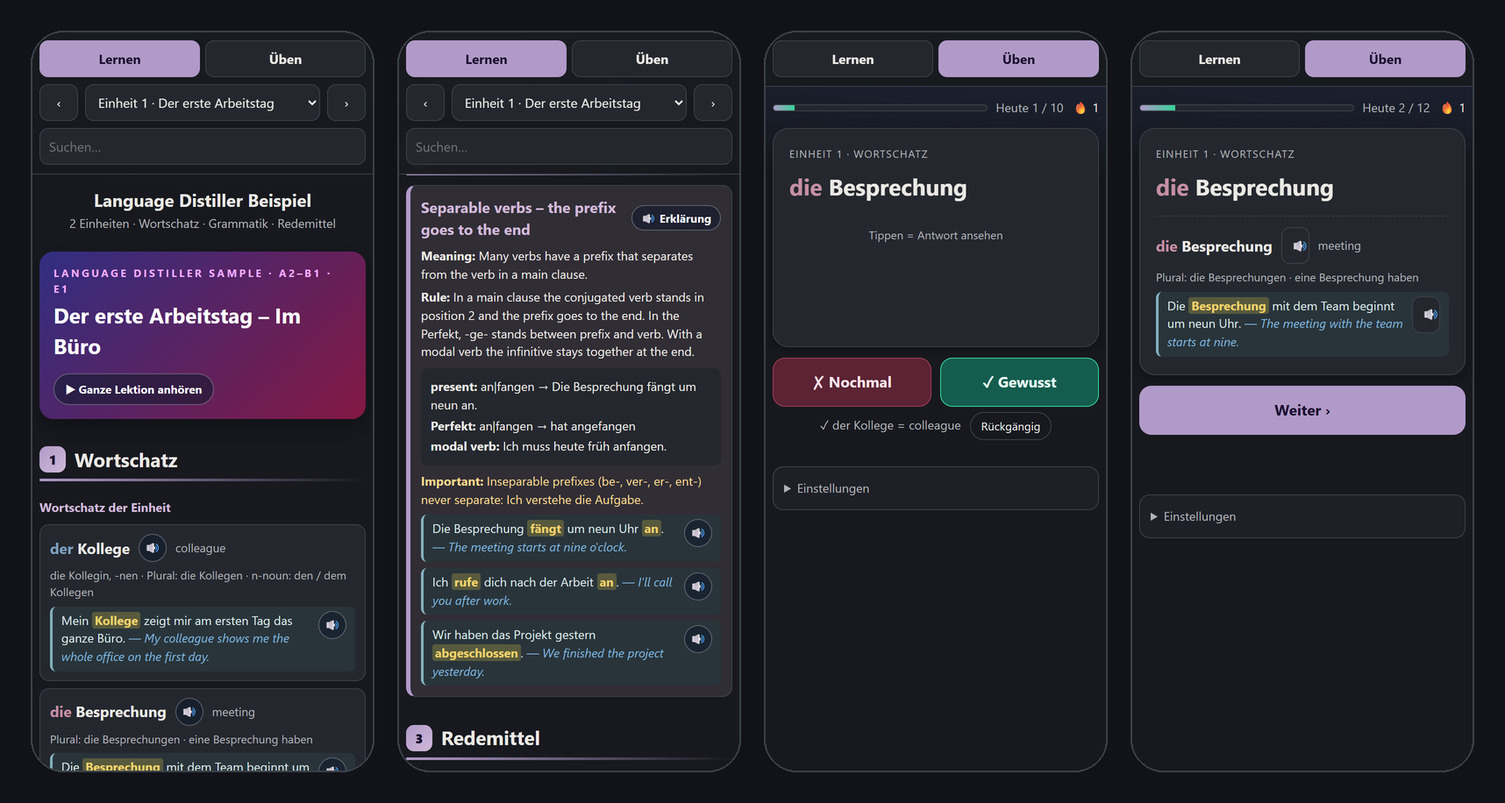
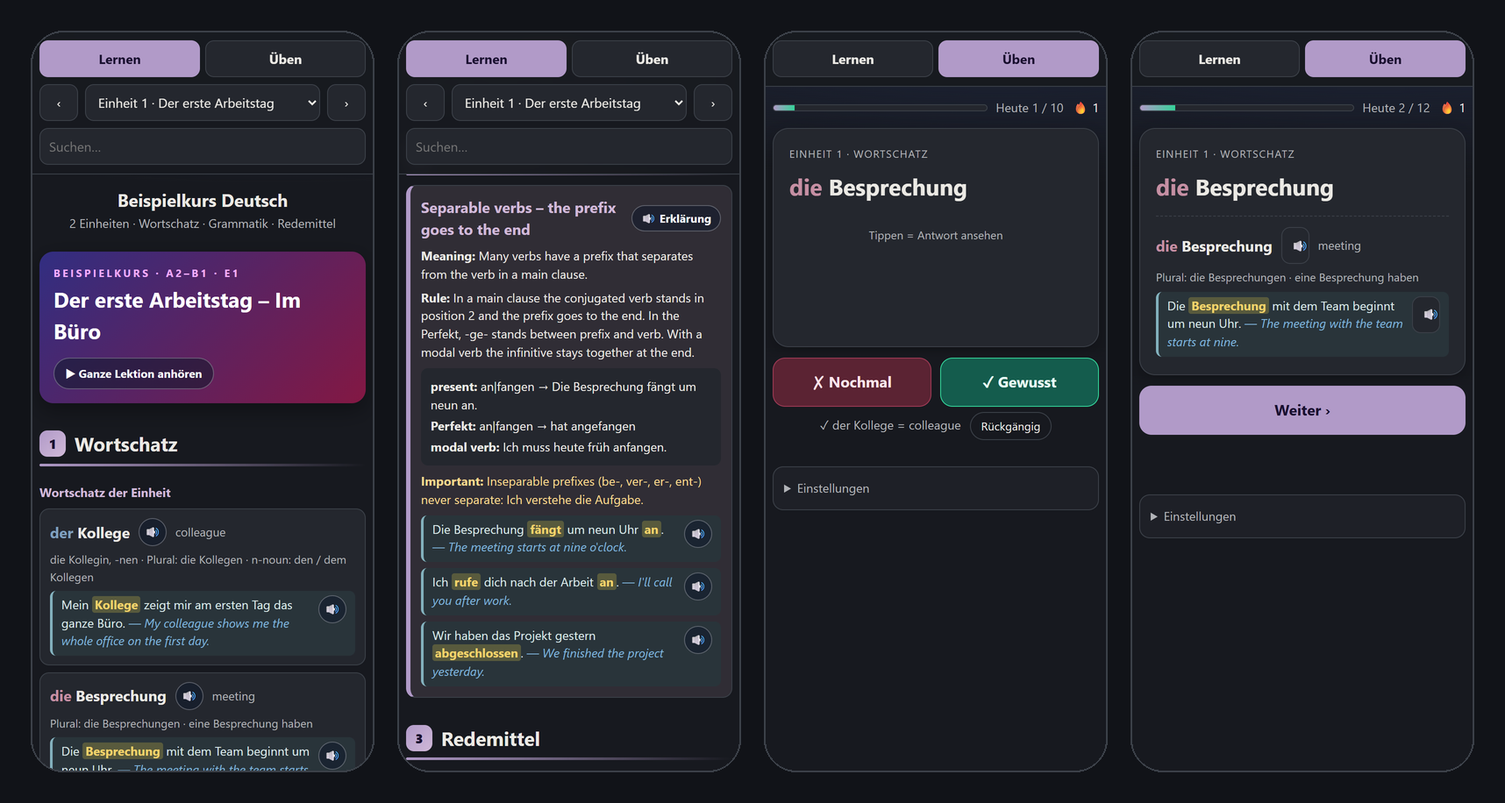
Rename to German Language Distiller
- skill, plugin and marketplace are now german-language-distiller
  (skills/german-language-distiller); the repository becomes
  german-language-distiller, so the name says what the skill supports
- the sample course is called "Beispielkurs" instead of carrying the product
  name, so a future rename leaves the sample and its screenshots alone

diff --git a/examples/sample-course/Sample_Studienpaket_v1.html b/examples/sample-course/Sample_Studienpaket_v1.html
@@ -2,7 +2,7 @@
 <html lang="de"><head>
 <meta charset="UTF-8"><meta name="viewport" content="width=device-width, initial-scale=1.0">
 <meta name="study-pack-app" content="course v1">
-<title>Language Distiller Beispiel</title>
+<title>Beispielkurs Deutsch</title>
 <style>
   :root{
     --der:#7f9fbd; --das:#86ad9a; --die:#c58fa3;
@@ -144,9 +144,9 @@
 </nav>
 <noscript><p class="cover">Audio und Üben brauchen einen Browser mit JavaScript.</p></noscript>
 <div class="lernen">
-<div class="cover"><b>Language Distiller Beispiel</b>2 Einheiten · Wortschatz · Grammatik · Redemittel</div>
+<div class="cover"><b>Beispielkurs Deutsch</b>2 Einheiten · Wortschatz · Grammatik · Redemittel</div>
 <section class="unit" id="E1">
-<header class="hero"><div class="lekt">Language Distiller sample · A2–B1 · E1</div><h1>Der erste Arbeitstag – Im Büro</h1></header>
+<header class="hero"><div class="lekt">Beispielkurs · A2–B1 · E1</div><h1>Der erste Arbeitstag – Im Büro</h1></header>
 <h2><span class="num">1</span> Wortschatz</h2><div class="rule-under"></div>
 <h3>Wortschatz der Einheit</h3><div class="grid">
 <article class="voc" id="E1-v1"><div class="top"><span class="de"><span class="art-der">der</span> Kollege</span><span class="en">colleague</span></div><p class="forms">die Kollegin, -nen · Plural: die Kollegen · n-noun: den / dem Kollegen</p><div class="ex">Mein <mark>Kollege</mark> zeigt mir am ersten Tag das ganze Büro. <span class="tr" lang="en">— My colleague shows me the whole office on the first day.</span></div></article>
@@ -166,7 +166,7 @@
 <article class="phrase" id="E1-e2"><div class="head">Könnten Sie mir bitte zeigen, wie …?</div><p class="meaning">Could you please show me how …?</p><div class="when">Ask a colleague for help. · polite</div><div class="ex"><mark>Könnten Sie mir bitte zeigen, wie</mark> der Drucker funktioniert? <span class="tr" lang="en">— Could you please show me how the printer works?</span></div></article>
 <article class="phrase" id="E1-e3"><div class="head">Bis wann soll ich … erledigen?</div><p class="meaning">By when should I get … done?</p><div class="when">Ask about a deadline.</div><div class="ex"><mark>Bis wann soll ich</mark> den Bericht <mark>erledigen</mark>? <span class="tr" lang="en">— By when should I get the report done?</span></div></article>
 </section><section class="unit" id="E2">
-<header class="hero"><div class="lekt">Language Distiller sample · A2–B1 · E2</div><h1>Pläne fürs Wochenende – Freizeit</h1></header>
+<header class="hero"><div class="lekt">Beispielkurs · A2–B1 · E2</div><h1>Pläne fürs Wochenende – Freizeit</h1></header>
 <h2><span class="num">1</span> Wortschatz</h2><div class="rule-under"></div>
 <h3>Wortschatz der Einheit</h3><div class="grid">
 <article class="voc" id="E2-v1"><div class="top"><span class="de"><span class="art-der">der</span> Ausflug</span><span class="en">trip, outing</span></div><p class="forms">Plural: die Ausflüge · einen Ausflug machen</p><div class="ex">Am Samstag machen wir einen <mark>Ausflug</mark> an den See. <span class="tr" lang="en">— On Saturday we&#x27;re going on a trip to the lake.</span></div></article>
@@ -210,7 +210,7 @@
 (function(){
   'use strict';
   var d=document, root=d.documentElement; root.classList.add('js');
-  var A={}, IDX={}, SEQ={}, CARDS=[{"u":"E1","l":"Einheit 1","id":"E1-v1","k":"w","b":"<div class=\"top\"><span class=\"de\"><span class=\"art-der\">der<\/span> Kollege<\/span><span class=\"en\">colleague<\/span><\/div><p class=\"forms\">die Kollegin, -nen · Plural: die Kollegen · n-noun: den / dem Kollegen<\/p><div class=\"ex\">Mein <mark>Kollege<\/mark> zeigt mir am ersten Tag das ganze Büro. <span class=\"tr\" lang=\"en\">— My colleague shows me the whole office on the first day.<\/span><\/div>","f":"<span class=\"art-der\">der<\/span> Kollege","r":"colleague","a":"der Kollege = colleague"},{"u":"E1","l":"Einheit 1","id":"E1-v2","k":"w","b":"<div class=\"top\"><span class=\"de\"><span class=\"art-die\">die<\/span> Besprechung<\/span><span class=\"en\">meeting<\/span><\/div><p class=\"forms\">Plural: die Besprechungen · eine Besprechung haben<\/p><div class=\"ex\">Die <mark>Besprechung<\/mark> mit dem Team beginnt um neun Uhr. <span class=\"tr\" lang=\"en\">— The meeting with the team starts at nine.<\/span><\/div>","f":"<span class=\"art-die\">die<\/span> Besprechung","r":"meeting","a":"die Besprechung = meeting"},{"u":"E1","l":"Einheit 1","id":"E1-v3","k":"w","b":"<div class=\"top\"><span class=\"de\"><span class=\"art-der\">der<\/span> Termin<\/span><span class=\"en\">appointment<\/span><\/div><p class=\"forms\">Plural: die Termine · einen Termin vereinbaren / verschieben<\/p><div class=\"ex\">Können wir den <mark>Termin<\/mark> auf Donnerstag verschieben? <span class=\"tr\" lang=\"en\">— Can we move the appointment to Thursday?<\/span><\/div>","f":"<span class=\"art-der\">der<\/span> Termin","r":"appointment","a":"der Termin = appointment"},{"u":"E1","l":"Einheit 1","id":"E1-v4","k":"w","b":"<div class=\"top\"><span class=\"de\">sich vorstellen<\/span><span class=\"en\">to introduce oneself<\/span><\/div><p class=\"forms\">stellt sich vor · hat sich vorgestellt · separable<\/p><div class=\"ex\">Am ersten Tag <mark>stelle<\/mark> ich mich allen Kollegen <mark>vor<\/mark>. <span class=\"tr\" lang=\"en\">— On the first day I introduce myself to all my colleagues.<\/span><\/div>","f":"sich vorstellen","r":"to introduce oneself","a":"sich vorstellen = to introduce oneself"},{"u":"E1","l":"Einheit 1","id":"E1-v5","k":"w","b":"<div class=\"top\"><span class=\"de\">erledigen<\/span><span class=\"en\">to get done, take care of<\/span><\/div><p class=\"forms\">erledigt · hat erledigt · eine Aufgabe erledigen<\/p><div class=\"ex\">Diese Aufgabe <mark>erledige<\/mark> ich bis Freitag. <span class=\"tr\" lang=\"en\">— I&#x27;ll get this task done by Friday.<\/span><\/div>","f":"erledigen","r":"to get done, take care of","a":"erledigen = to get done, take care of"},{"u":"E1","l":"Einheit 1","id":"E1-v6","k":"w","b":"<div class=\"top\"><span class=\"de\">pünktlich<\/span><span class=\"en\">on time, punctual<\/span><\/div><p class=\"forms\">↔ unpünktlich · die Pünktlichkeit<\/p><div class=\"ex\">Bitte sei morgen <mark>pünktlich<\/mark>, wir haben um acht eine Besprechung. <span class=\"tr\" lang=\"en\">— Please be on time tomorrow, we have a meeting at eight.<\/span><\/div>","f":"pünktlich","r":"on time, punctual","a":"pünktlich = on time, punctual"},{"u":"E1","l":"Einheit 1","id":"E1-g1","k":"g","b":"<h3>Separable verbs – the prefix goes to the end<\/h3><p><b>Meaning:<\/b> Many verbs have a prefix that separates from the verb in a main clause.<\/p><p><b>Rule:<\/b> In a main clause the conjugated verb stands in position 2 and the prefix goes to the end. In the Perfekt, -ge- stands between prefix and verb. With a modal verb the infinitive stays together at the end.<\/p><div class=\"patterns\"><p><b>present:<\/b> an|fangen → Die Besprechung fängt um neun an.<\/p><p><b>Perfekt:<\/b> an|fangen → hat angefangen<\/p><p><b>modal verb:<\/b> Ich muss heute früh anfangen.<\/p><\/div><p class=\"contrast\"><b>Important:<\/b> Inseparable prefixes (be-, ver-, er-, ent-) never separate: Ich verstehe die Aufgabe.<\/p><div class=\"ex\">Die Besprechung <mark>fängt<\/mark> um neun Uhr <mark>an<\/mark>. <span class=\"tr\" lang=\"en\">— The meeting starts at nine o&#x27;clock.<\/span><\/div>\n<div class=\"ex\">Ich <mark>rufe<\/mark> dich nach der Arbeit <mark>an<\/mark>. <span class=\"tr\" lang=\"en\">— I&#x27;ll call you after work.<\/span><\/div>\n<div class=\"ex\">Wir haben das Projekt gestern <mark>abgeschlossen<\/mark>. <span class=\"tr\" lang=\"en\">— We finished the project yesterday.<\/span><\/div>","f":"Separable verbs – the prefix goes to the end","a":"Separable verbs – the prefix goes to the end"},{"u":"E1","l":"Einheit 1","id":"E1-e1","k":"r","b":"<div class=\"head\">Darf ich mich kurz vorstellen? Ich bin … und arbeite als …<\/div><p class=\"meaning\">May I briefly introduce myself? I&#x27;m … and I work as …<\/p><div class=\"when\">Introduce yourself at a new workplace. · polite<\/div><div class=\"ex\"><mark>Darf ich mich kurz vorstellen<\/mark>? Ich bin Sara und arbeite als Grafikerin. <span class=\"tr\" lang=\"en\">— May I briefly introduce myself? I&#x27;m Sara and I work as a graphic designer.<\/span><\/div>","f":"<span class=\"q-mean\">May I briefly introduce myself? I&#x27;m … and I work as …<\/span><span class=\"q-when\">Introduce yourself at a new workplace. · polite<\/span>","a":"Darf ich mich kurz vorstellen? Ich bin … und arbeite als …"},{"u":"E1","l":"Einheit 1","id":"E1-e2","k":"r","b":"<div class=\"head\">Könnten Sie mir bitte zeigen, wie …?<\/div><p class=\"meaning\">Could you please show me how …?<\/p><div class=\"when\">Ask a colleague for help. · polite<\/div><div class=\"ex\"><mark>Könnten Sie mir bitte zeigen, wie<\/mark> der Drucker funktioniert? <span class=\"tr\" lang=\"en\">— Could you please show me how the printer works?<\/span><\/div>","f":"<span class=\"q-mean\">Could you please show me how …?<\/span><span class=\"q-when\">Ask a colleague for help. · polite<\/span>","a":"Könnten Sie mir bitte zeigen, wie …?"},{"u":"E1","l":"Einheit 1","id":"E1-e3","k":"r","b":"<div class=\"head\">Bis wann soll ich … erledigen?<\/div><p class=\"meaning\">By when should I get … done?<\/p><div class=\"when\">Ask about a deadline.<\/div><div class=\"ex\"><mark>Bis wann soll ich<\/mark> den Bericht <mark>erledigen<\/mark>? <span class=\"tr\" lang=\"en\">— By when should I get the report done?<\/span><\/div>","f":"<span class=\"q-mean\">By when should I get … done?<\/span><span class=\"q-when\">Ask about a deadline.<\/span>","a":"Bis wann soll ich … erledigen?"},{"u":"E2","l":"Einheit 2","id":"E2-v1","k":"w","b":"<div class=\"top\"><span class=\"de\"><span class=\"art-der\">der<\/span> Ausflug<\/span><span class=\"en\">trip, outing<\/span><\/div><p class=\"forms\">Plural: die Ausflüge · einen Ausflug machen<\/p><div class=\"ex\">Am Samstag machen wir einen <mark>Ausflug<\/mark> an den See. <span class=\"tr\" lang=\"en\">— On Saturday we&#x27;re going on a trip to the lake.<\/span><\/div>","f":"<span class=\"art-der\">der<\/span> Ausflug","r":"trip, outing","a":"der Ausflug = trip, outing"},{"u":"E2","l":"Einheit 2","id":"E2-v2","k":"w","b":"<div class=\"top\"><span class=\"de\"><span class=\"art-die\">die<\/span> Verabredung<\/span><span class=\"en\">arrangement to meet, date<\/span><\/div><p class=\"forms\">Plural: die Verabredungen · sich verabreden<\/p><div class=\"ex\">Ich habe heute Abend eine <mark>Verabredung<\/mark> mit Lena. <span class=\"tr\" lang=\"en\">— I&#x27;m meeting Lena tonight.<\/span><\/div>","f":"<span class=\"art-die\">die<\/span> Verabredung","r":"arrangement to meet, date","a":"die Verabredung = arrangement to meet, date"},{"u":"E2","l":"Einheit 2","id":"E2-v3","k":"w","b":"<div class=\"top\"><span class=\"de\">vorschlagen<\/span><span class=\"en\">to suggest<\/span><\/div><p class=\"forms\">schlägt vor · hat vorgeschlagen (!) · separable<\/p><div class=\"ex\">Ich <mark>schlage<\/mark> <mark>vor<\/mark>, dass wir zusammen kochen. <span class=\"tr\" lang=\"en\">— I suggest that we cook together.<\/span><\/div>","f":"vorschlagen","r":"to suggest","a":"vorschlagen = to suggest"},{"u":"E2","l":"Einheit 2","id":"E2-v4","k":"w","b":"<div class=\"top\"><span class=\"de\">spontan<\/span><span class=\"en\">spontaneous(ly)<\/span><\/div><p class=\"forms\">sich spontan entscheiden<\/p><div class=\"ex\">Wir haben uns ganz <mark>spontan<\/mark> für das Kino entschieden. <span class=\"tr\" lang=\"en\">— We decided on the cinema quite spontaneously.<\/span><\/div>","f":"spontan","r":"spontaneous(ly)","a":"spontan = spontaneous(ly)"},{"u":"E2","l":"Einheit 2","id":"E2-v5","k":"w","b":"<div class=\"top\"><span class=\"de\"><span class=\"art-das\">das<\/span> Wetter<\/span><span class=\"en\">weather<\/span><\/div><p class=\"forms\">no plural · bei schönem Wetter<\/p><div class=\"ex\">Bei schönem <mark>Wetter<\/mark> fahren wir mit dem Rad. <span class=\"tr\" lang=\"en\">— If the weather is nice, we&#x27;ll go by bike.<\/span><\/div>","f":"<span class=\"art-das\">das<\/span> Wetter","r":"weather","a":"das Wetter = weather"},{"u":"E2","l":"Einheit 2","id":"E2-g1","k":"g","b":"<h3>Polite suggestions with könnte and wäre<\/h3><p><b>Meaning:<\/b> Konjunktiv II makes a suggestion sound open and friendly.<\/p><p><b>Rule:<\/b> Use könnten + infinitive at the end, or Wie wäre es mit + Dativ. Wir könnten … is softer than Wir müssen …<\/p><div class=\"patterns\"><p><b>könnte:<\/b> Wir könnten am Sonntag wandern gehen.<\/p><p><b>wäre:<\/b> Wie wäre es mit einem Picknick?<\/p><p><b>Lust haben:<\/b> Hättest du Lust, … zu …?<\/p><\/div><p class=\"contrast\"><b>Important:<\/b> Wir können … states that something is possible. Wir könnten … makes a suggestion.<\/p><div class=\"ex\">Wir <mark>könnten<\/mark> am Sonntag wandern gehen. <span class=\"tr\" lang=\"en\">— We could go hiking on Sunday.<\/span><\/div>\n<div class=\"ex\"><mark>Wie wäre es mit<\/mark> einem Picknick im Park? <span class=\"tr\" lang=\"en\">— How about a picnic in the park?<\/span><\/div>\n<div class=\"ex\"><mark>Hättest du Lust<\/mark>, mit ins Kino zu kommen? <span class=\"tr\" lang=\"en\">— Would you like to come to the cinema?<\/span><\/div>","f":"Polite suggestions with könnte and wäre","a":"Polite suggestions with könnte and wäre"},{"u":"E2","l":"Einheit 2","id":"E2-e1","k":"r","b":"<div class=\"head\">Hast du Lust, … zu …?<\/div><p class=\"meaning\">Do you feel like …ing?<\/p><div class=\"when\">Invite a friend informally. · informal<\/div><div class=\"ex\"><mark>Hast du Lust<\/mark>, am Samstag mit uns <mark>zu<\/mark> grillen? <span class=\"tr\" lang=\"en\">— Do you feel like having a barbecue with us on Saturday?<\/span><\/div>","f":"<span class=\"q-mean\">Do you feel like …ing?<\/span><span class=\"q-when\">Invite a friend informally. · informal<\/span>","a":"Hast du Lust, … zu …?"},{"u":"E2","l":"Einheit 2","id":"E2-e2","k":"r","b":"<div class=\"head\">Wie wäre es mit …?<\/div><p class=\"meaning\">How about …?<\/p><div class=\"when\">Make a suggestion.<\/div><div class=\"ex\"><mark>Wie wäre es mit<\/mark> einem Ausflug an den See? <span class=\"tr\" lang=\"en\">— How about a trip to the lake?<\/span><\/div>","f":"<span class=\"q-mean\">How about …?<\/span><span class=\"q-when\">Make a suggestion.<\/span>","a":"Wie wäre es mit …?"},{"u":"E2","l":"Einheit 2","id":"E2-e3","k":"r","b":"<div class=\"head\">Das passt mir gut. / Das passt mir leider nicht.<\/div><p class=\"meaning\">That suits me. / Unfortunately that doesn&#x27;t suit me.<\/p><div class=\"when\">Accept or decline a suggested time.<\/div><div class=\"ex\">Samstag <mark>passt mir gut<\/mark>, aber Sonntag <mark>passt mir leider nicht<\/mark>. <span class=\"tr\" lang=\"en\">— Saturday suits me, but Sunday unfortunately doesn&#x27;t.<\/span><\/div>","f":"<span class=\"q-mean\">That suits me. / Unfortunately that doesn&#x27;t suit me.<\/span><span class=\"q-when\">Accept or decline a suggested time.<\/span>","a":"Das passt mir gut. / Das passt mir leider nicht."}], ORDER=["E1", "E2"], CFG={"key": "language-distiller-beispiel", "perDay": 10, "units": [["E1", "E1"], ["E2", "E2"]]};
+  var A={}, IDX={}, SEQ={}, CARDS=[{"u":"E1","l":"Einheit 1","id":"E1-v1","k":"w","b":"<div class=\"top\"><span class=\"de\"><span class=\"art-der\">der<\/span> Kollege<\/span><span class=\"en\">colleague<\/span><\/div><p class=\"forms\">die Kollegin, -nen · Plural: die Kollegen · n-noun: den / dem Kollegen<\/p><div class=\"ex\">Mein <mark>Kollege<\/mark> zeigt mir am ersten Tag das ganze Büro. <span class=\"tr\" lang=\"en\">— My colleague shows me the whole office on the first day.<\/span><\/div>","f":"<span class=\"art-der\">der<\/span> Kollege","r":"colleague","a":"der Kollege = colleague"},{"u":"E1","l":"Einheit 1","id":"E1-v2","k":"w","b":"<div class=\"top\"><span class=\"de\"><span class=\"art-die\">die<\/span> Besprechung<\/span><span class=\"en\">meeting<\/span><\/div><p class=\"forms\">Plural: die Besprechungen · eine Besprechung haben<\/p><div class=\"ex\">Die <mark>Besprechung<\/mark> mit dem Team beginnt um neun Uhr. <span class=\"tr\" lang=\"en\">— The meeting with the team starts at nine.<\/span><\/div>","f":"<span class=\"art-die\">die<\/span> Besprechung","r":"meeting","a":"die Besprechung = meeting"},{"u":"E1","l":"Einheit 1","id":"E1-v3","k":"w","b":"<div class=\"top\"><span class=\"de\"><span class=\"art-der\">der<\/span> Termin<\/span><span class=\"en\">appointment<\/span><\/div><p class=\"forms\">Plural: die Termine · einen Termin vereinbaren / verschieben<\/p><div class=\"ex\">Können wir den <mark>Termin<\/mark> auf Donnerstag verschieben? <span class=\"tr\" lang=\"en\">— Can we move the appointment to Thursday?<\/span><\/div>","f":"<span class=\"art-der\">der<\/span> Termin","r":"appointment","a":"der Termin = appointment"},{"u":"E1","l":"Einheit 1","id":"E1-v4","k":"w","b":"<div class=\"top\"><span class=\"de\">sich vorstellen<\/span><span class=\"en\">to introduce oneself<\/span><\/div><p class=\"forms\">stellt sich vor · hat sich vorgestellt · separable<\/p><div class=\"ex\">Am ersten Tag <mark>stelle<\/mark> ich mich allen Kollegen <mark>vor<\/mark>. <span class=\"tr\" lang=\"en\">— On the first day I introduce myself to all my colleagues.<\/span><\/div>","f":"sich vorstellen","r":"to introduce oneself","a":"sich vorstellen = to introduce oneself"},{"u":"E1","l":"Einheit 1","id":"E1-v5","k":"w","b":"<div class=\"top\"><span class=\"de\">erledigen<\/span><span class=\"en\">to get done, take care of<\/span><\/div><p class=\"forms\">erledigt · hat erledigt · eine Aufgabe erledigen<\/p><div class=\"ex\">Diese Aufgabe <mark>erledige<\/mark> ich bis Freitag. <span class=\"tr\" lang=\"en\">— I&#x27;ll get this task done by Friday.<\/span><\/div>","f":"erledigen","r":"to get done, take care of","a":"erledigen = to get done, take care of"},{"u":"E1","l":"Einheit 1","id":"E1-v6","k":"w","b":"<div class=\"top\"><span class=\"de\">pünktlich<\/span><span class=\"en\">on time, punctual<\/span><\/div><p class=\"forms\">↔ unpünktlich · die Pünktlichkeit<\/p><div class=\"ex\">Bitte sei morgen <mark>pünktlich<\/mark>, wir haben um acht eine Besprechung. <span class=\"tr\" lang=\"en\">— Please be on time tomorrow, we have a meeting at eight.<\/span><\/div>","f":"pünktlich","r":"on time, punctual","a":"pünktlich = on time, punctual"},{"u":"E1","l":"Einheit 1","id":"E1-g1","k":"g","b":"<h3>Separable verbs – the prefix goes to the end<\/h3><p><b>Meaning:<\/b> Many verbs have a prefix that separates from the verb in a main clause.<\/p><p><b>Rule:<\/b> In a main clause the conjugated verb stands in position 2 and the prefix goes to the end. In the Perfekt, -ge- stands between prefix and verb. With a modal verb the infinitive stays together at the end.<\/p><div class=\"patterns\"><p><b>present:<\/b> an|fangen → Die Besprechung fängt um neun an.<\/p><p><b>Perfekt:<\/b> an|fangen → hat angefangen<\/p><p><b>modal verb:<\/b> Ich muss heute früh anfangen.<\/p><\/div><p class=\"contrast\"><b>Important:<\/b> Inseparable prefixes (be-, ver-, er-, ent-) never separate: Ich verstehe die Aufgabe.<\/p><div class=\"ex\">Die Besprechung <mark>fängt<\/mark> um neun Uhr <mark>an<\/mark>. <span class=\"tr\" lang=\"en\">— The meeting starts at nine o&#x27;clock.<\/span><\/div>\n<div class=\"ex\">Ich <mark>rufe<\/mark> dich nach der Arbeit <mark>an<\/mark>. <span class=\"tr\" lang=\"en\">— I&#x27;ll call you after work.<\/span><\/div>\n<div class=\"ex\">Wir haben das Projekt gestern <mark>abgeschlossen<\/mark>. <span class=\"tr\" lang=\"en\">— We finished the project yesterday.<\/span><\/div>","f":"Separable verbs – the prefix goes to the end","a":"Separable verbs – the prefix goes to the end"},{"u":"E1","l":"Einheit 1","id":"E1-e1","k":"r","b":"<div class=\"head\">Darf ich mich kurz vorstellen? Ich bin … und arbeite als …<\/div><p class=\"meaning\">May I briefly introduce myself? I&#x27;m … and I work as …<\/p><div class=\"when\">Introduce yourself at a new workplace. · polite<\/div><div class=\"ex\"><mark>Darf ich mich kurz vorstellen<\/mark>? Ich bin Sara und arbeite als Grafikerin. <span class=\"tr\" lang=\"en\">— May I briefly introduce myself? I&#x27;m Sara and I work as a graphic designer.<\/span><\/div>","f":"<span class=\"q-mean\">May I briefly introduce myself? I&#x27;m … and I work as …<\/span><span class=\"q-when\">Introduce yourself at a new workplace. · polite<\/span>","a":"Darf ich mich kurz vorstellen? Ich bin … und arbeite als …"},{"u":"E1","l":"Einheit 1","id":"E1-e2","k":"r","b":"<div class=\"head\">Könnten Sie mir bitte zeigen, wie …?<\/div><p class=\"meaning\">Could you please show me how …?<\/p><div class=\"when\">Ask a colleague for help. · polite<\/div><div class=\"ex\"><mark>Könnten Sie mir bitte zeigen, wie<\/mark> der Drucker funktioniert? <span class=\"tr\" lang=\"en\">— Could you please show me how the printer works?<\/span><\/div>","f":"<span class=\"q-mean\">Could you please show me how …?<\/span><span class=\"q-when\">Ask a colleague for help. · polite<\/span>","a":"Könnten Sie mir bitte zeigen, wie …?"},{"u":"E1","l":"Einheit 1","id":"E1-e3","k":"r","b":"<div class=\"head\">Bis wann soll ich … erledigen?<\/div><p class=\"meaning\">By when should I get … done?<\/p><div class=\"when\">Ask about a deadline.<\/div><div class=\"ex\"><mark>Bis wann soll ich<\/mark> den Bericht <mark>erledigen<\/mark>? <span class=\"tr\" lang=\"en\">— By when should I get the report done?<\/span><\/div>","f":"<span class=\"q-mean\">By when should I get … done?<\/span><span class=\"q-when\">Ask about a deadline.<\/span>","a":"Bis wann soll ich … erledigen?"},{"u":"E2","l":"Einheit 2","id":"E2-v1","k":"w","b":"<div class=\"top\"><span class=\"de\"><span class=\"art-der\">der<\/span> Ausflug<\/span><span class=\"en\">trip, outing<\/span><\/div><p class=\"forms\">Plural: die Ausflüge · einen Ausflug machen<\/p><div class=\"ex\">Am Samstag machen wir einen <mark>Ausflug<\/mark> an den See. <span class=\"tr\" lang=\"en\">— On Saturday we&#x27;re going on a trip to the lake.<\/span><\/div>","f":"<span class=\"art-der\">der<\/span> Ausflug","r":"trip, outing","a":"der Ausflug = trip, outing"},{"u":"E2","l":"Einheit 2","id":"E2-v2","k":"w","b":"<div class=\"top\"><span class=\"de\"><span class=\"art-die\">die<\/span> Verabredung<\/span><span class=\"en\">arrangement to meet, date<\/span><\/div><p class=\"forms\">Plural: die Verabredungen · sich verabreden<\/p><div class=\"ex\">Ich habe heute Abend eine <mark>Verabredung<\/mark> mit Lena. <span class=\"tr\" lang=\"en\">— I&#x27;m meeting Lena tonight.<\/span><\/div>","f":"<span class=\"art-die\">die<\/span> Verabredung","r":"arrangement to meet, date","a":"die Verabredung = arrangement to meet, date"},{"u":"E2","l":"Einheit 2","id":"E2-v3","k":"w","b":"<div class=\"top\"><span class=\"de\">vorschlagen<\/span><span class=\"en\">to suggest<\/span><\/div><p class=\"forms\">schlägt vor · hat vorgeschlagen (!) · separable<\/p><div class=\"ex\">Ich <mark>schlage<\/mark> <mark>vor<\/mark>, dass wir zusammen kochen. <span class=\"tr\" lang=\"en\">— I suggest that we cook together.<\/span><\/div>","f":"vorschlagen","r":"to suggest","a":"vorschlagen = to suggest"},{"u":"E2","l":"Einheit 2","id":"E2-v4","k":"w","b":"<div class=\"top\"><span class=\"de\">spontan<\/span><span class=\"en\">spontaneous(ly)<\/span><\/div><p class=\"forms\">sich spontan entscheiden<\/p><div class=\"ex\">Wir haben uns ganz <mark>spontan<\/mark> für das Kino entschieden. <span class=\"tr\" lang=\"en\">— We decided on the cinema quite spontaneously.<\/span><\/div>","f":"spontan","r":"spontaneous(ly)","a":"spontan = spontaneous(ly)"},{"u":"E2","l":"Einheit 2","id":"E2-v5","k":"w","b":"<div class=\"top\"><span class=\"de\"><span class=\"art-das\">das<\/span> Wetter<\/span><span class=\"en\">weather<\/span><\/div><p class=\"forms\">no plural · bei schönem Wetter<\/p><div class=\"ex\">Bei schönem <mark>Wetter<\/mark> fahren wir mit dem Rad. <span class=\"tr\" lang=\"en\">— If the weather is nice, we&#x27;ll go by bike.<\/span><\/div>","f":"<span class=\"art-das\">das<\/span> Wetter","r":"weather","a":"das Wetter = weather"},{"u":"E2","l":"Einheit 2","id":"E2-g1","k":"g","b":"<h3>Polite suggestions with könnte and wäre<\/h3><p><b>Meaning:<\/b> Konjunktiv II makes a suggestion sound open and friendly.<\/p><p><b>Rule:<\/b> Use könnten + infinitive at the end, or Wie wäre es mit + Dativ. Wir könnten … is softer than Wir müssen …<\/p><div class=\"patterns\"><p><b>könnte:<\/b> Wir könnten am Sonntag wandern gehen.<\/p><p><b>wäre:<\/b> Wie wäre es mit einem Picknick?<\/p><p><b>Lust haben:<\/b> Hättest du Lust, … zu …?<\/p><\/div><p class=\"contrast\"><b>Important:<\/b> Wir können … states that something is possible. Wir könnten … makes a suggestion.<\/p><div class=\"ex\">Wir <mark>könnten<\/mark> am Sonntag wandern gehen. <span class=\"tr\" lang=\"en\">— We could go hiking on Sunday.<\/span><\/div>\n<div class=\"ex\"><mark>Wie wäre es mit<\/mark> einem Picknick im Park? <span class=\"tr\" lang=\"en\">— How about a picnic in the park?<\/span><\/div>\n<div class=\"ex\"><mark>Hättest du Lust<\/mark>, mit ins Kino zu kommen? <span class=\"tr\" lang=\"en\">— Would you like to come to the cinema?<\/span><\/div>","f":"Polite suggestions with könnte and wäre","a":"Polite suggestions with könnte and wäre"},{"u":"E2","l":"Einheit 2","id":"E2-e1","k":"r","b":"<div class=\"head\">Hast du Lust, … zu …?<\/div><p class=\"meaning\">Do you feel like …ing?<\/p><div class=\"when\">Invite a friend informally. · informal<\/div><div class=\"ex\"><mark>Hast du Lust<\/mark>, am Samstag mit uns <mark>zu<\/mark> grillen? <span class=\"tr\" lang=\"en\">— Do you feel like having a barbecue with us on Saturday?<\/span><\/div>","f":"<span class=\"q-mean\">Do you feel like …ing?<\/span><span class=\"q-when\">Invite a friend informally. · informal<\/span>","a":"Hast du Lust, … zu …?"},{"u":"E2","l":"Einheit 2","id":"E2-e2","k":"r","b":"<div class=\"head\">Wie wäre es mit …?<\/div><p class=\"meaning\">How about …?<\/p><div class=\"when\">Make a suggestion.<\/div><div class=\"ex\"><mark>Wie wäre es mit<\/mark> einem Ausflug an den See? <span class=\"tr\" lang=\"en\">— How about a trip to the lake?<\/span><\/div>","f":"<span class=\"q-mean\">How about …?<\/span><span class=\"q-when\">Make a suggestion.<\/span>","a":"Wie wäre es mit …?"},{"u":"E2","l":"Einheit 2","id":"E2-e3","k":"r","b":"<div class=\"head\">Das passt mir gut. / Das passt mir leider nicht.<\/div><p class=\"meaning\">That suits me. / Unfortunately that doesn&#x27;t suit me.<\/p><div class=\"when\">Accept or decline a suggested time.<\/div><div class=\"ex\">Samstag <mark>passt mir gut<\/mark>, aber Sonntag <mark>passt mir leider nicht<\/mark>. <span class=\"tr\" lang=\"en\">— Saturday suits me, but Sunday unfortunately doesn&#x27;t.<\/span><\/div>","f":"<span class=\"q-mean\">That suits me. / Unfortunately that doesn&#x27;t suit me.<\/span><span class=\"q-when\">Accept or decline a suggested time.<\/span>","a":"Das passt mir gut. / Das passt mir leider nicht."}], ORDER=["E1", "E2"], CFG={"key": "beispielkurs-deutsch", "perDay": 10, "units": [["E1", "E1"], ["E2", "E2"]]};
   var K=CFG.key;
   function load(k,dflt){try{var v=localStorage.getItem(K+':'+k);return v?JSON.parse(v):dflt;}catch(e){return dflt;}}
   function save(k,v){try{localStorage.setItem(K+':'+k,JSON.stringify(v));}catch(e){}}

diff --git a/examples/sample-course/E1_Studysheet_v1.html b/examples/sample-course/E1_Studysheet_v1.html
@@ -49,7 +49,7 @@
   @media(prefers-reduced-motion:reduce){*{scroll-behavior:auto!important}}
 </style>
 </head><body><main class="wrap">
-<header class="hero"><div class="lekt">Language Distiller sample · A2–B1 · E1</div><h1>Der erste Arbeitstag – Im Büro</h1></header>
+<header class="hero"><div class="lekt">Beispielkurs · A2–B1 · E1</div><h1>Der erste Arbeitstag – Im Büro</h1></header>
 <h2><span class="num">1</span> Wortschatz</h2><div class="rule-under"></div>
 <h3>Wortschatz der Einheit</h3><div class="grid">
 <article class="voc" id="v1"><div class="top"><span class="de"><span class="art-der">der</span> Kollege</span><span class="en">colleague</span></div><p class="forms">die Kollegin, -nen · Plural: die Kollegen · n-noun: den / dem Kollegen</p><div class="ex">Mein <mark>Kollege</mark> zeigt mir am ersten Tag das ganze Büro. <span class="tr" lang="en">— My colleague shows me the whole office on the first day.</span></div></article>

diff --git a/examples/sample-course/E2_Studysheet_v1.html b/examples/sample-course/E2_Studysheet_v1.html
@@ -49,7 +49,7 @@
   @media(prefers-reduced-motion:reduce){*{scroll-behavior:auto!important}}
 </style>
 </head><body><main class="wrap">
-<header class="hero"><div class="lekt">Language Distiller sample · A2–B1 · E2</div><h1>Pläne fürs Wochenende – Freizeit</h1></header>
+<header class="hero"><div class="lekt">Beispielkurs · A2–B1 · E2</div><h1>Pläne fürs Wochenende – Freizeit</h1></header>
 <h2><span class="num">1</span> Wortschatz</h2><div class="rule-under"></div>
 <h3>Wortschatz der Einheit</h3><div class="grid">
 <article class="voc" id="v1"><div class="top"><span class="de"><span class="art-der">der</span> Ausflug</span><span class="en">trip, outing</span></div><p class="forms">Plural: die Ausflüge · einen Ausflug machen</p><div class="ex">Am Samstag machen wir einen <mark>Ausflug</mark> an den See. <span class="tr" lang="en">— On Saturday we&#x27;re going on a trip to the lake.</span></div></article>

diff --git a/examples/sample-course/make_sample.py b/examples/sample-course/make_sample.py
@@ -9,7 +9,7 @@ import copy, json, subprocess, sys
 from pathlib import Path
 
 HERE = Path(__file__).resolve().parent
-SCRIPTS = HERE.parents[1] / "skills" / "language-distiller" / "scripts"
+SCRIPTS = HERE.parents[1] / "skills" / "german-language-distiller" / "scripts"
 sys.path.insert(0, str(SCRIPTS))
 import study_pack as pack  # noqa: E402
 
@@ -144,7 +144,7 @@ def bundle(unit):
                       "decision": "standalone", "home": eid, "reason": "Reusable phrase from the dialogue."})
     items.append({"id": "i-names", "kind": "source_only", "label": "character names", "importance": "incidental",
                   "sources": copy.deepcopy(src), "decision": "exclude", "reason": "Story identity, no learning value."})
-    inventory = {"schema_version": 2, "lesson_id": unit["id"], "book": "Language Distiller sample", "source_sha256": pack.file_hash(SOURCE),
+    inventory = {"schema_version": 2, "lesson_id": unit["id"], "book": "Beispielkurs", "source_sha256": pack.file_hash(SOURCE),
                  "scope_label": f"{unit['label']} of the sample source", "scope_pages": [unit["page"]],
                  "pages": [{"pdf_index": unit["page"], "folio": str(unit["page"] + 1), "regions": [
                      {"id": region, "label": unit["title"], "status": "reviewed", "method": "text", "note": "Original sample text."}]}],
@@ -176,7 +176,7 @@ def main():
         units.append({"id": unit["id"], "label": unit["label"], "lesson": f"{unit['id']}/{unit['id']}_Lesson_v2.json",
                       "sheet": f"../{sheet.name}"})
     write(HERE / "_work" / "narration.json", NARRATION)
-    write(HERE / "_work" / "course.json", {"title": "Language Distiller Beispiel", "subtitle": "2 Einheiten · Wortschatz · Grammatik · Redemittel",
+    write(HERE / "_work" / "course.json", {"title": "Beispielkurs Deutsch", "subtitle": "2 Einheiten · Wortschatz · Grammatik · Redemittel",
                                            "narration": "narration.json", "cache": "audio", "episodes_dir": "../Audio",
                                            "new_per_day": 10, "units": units})
     app = HERE / "Sample_Studienpaket_v1.html"
